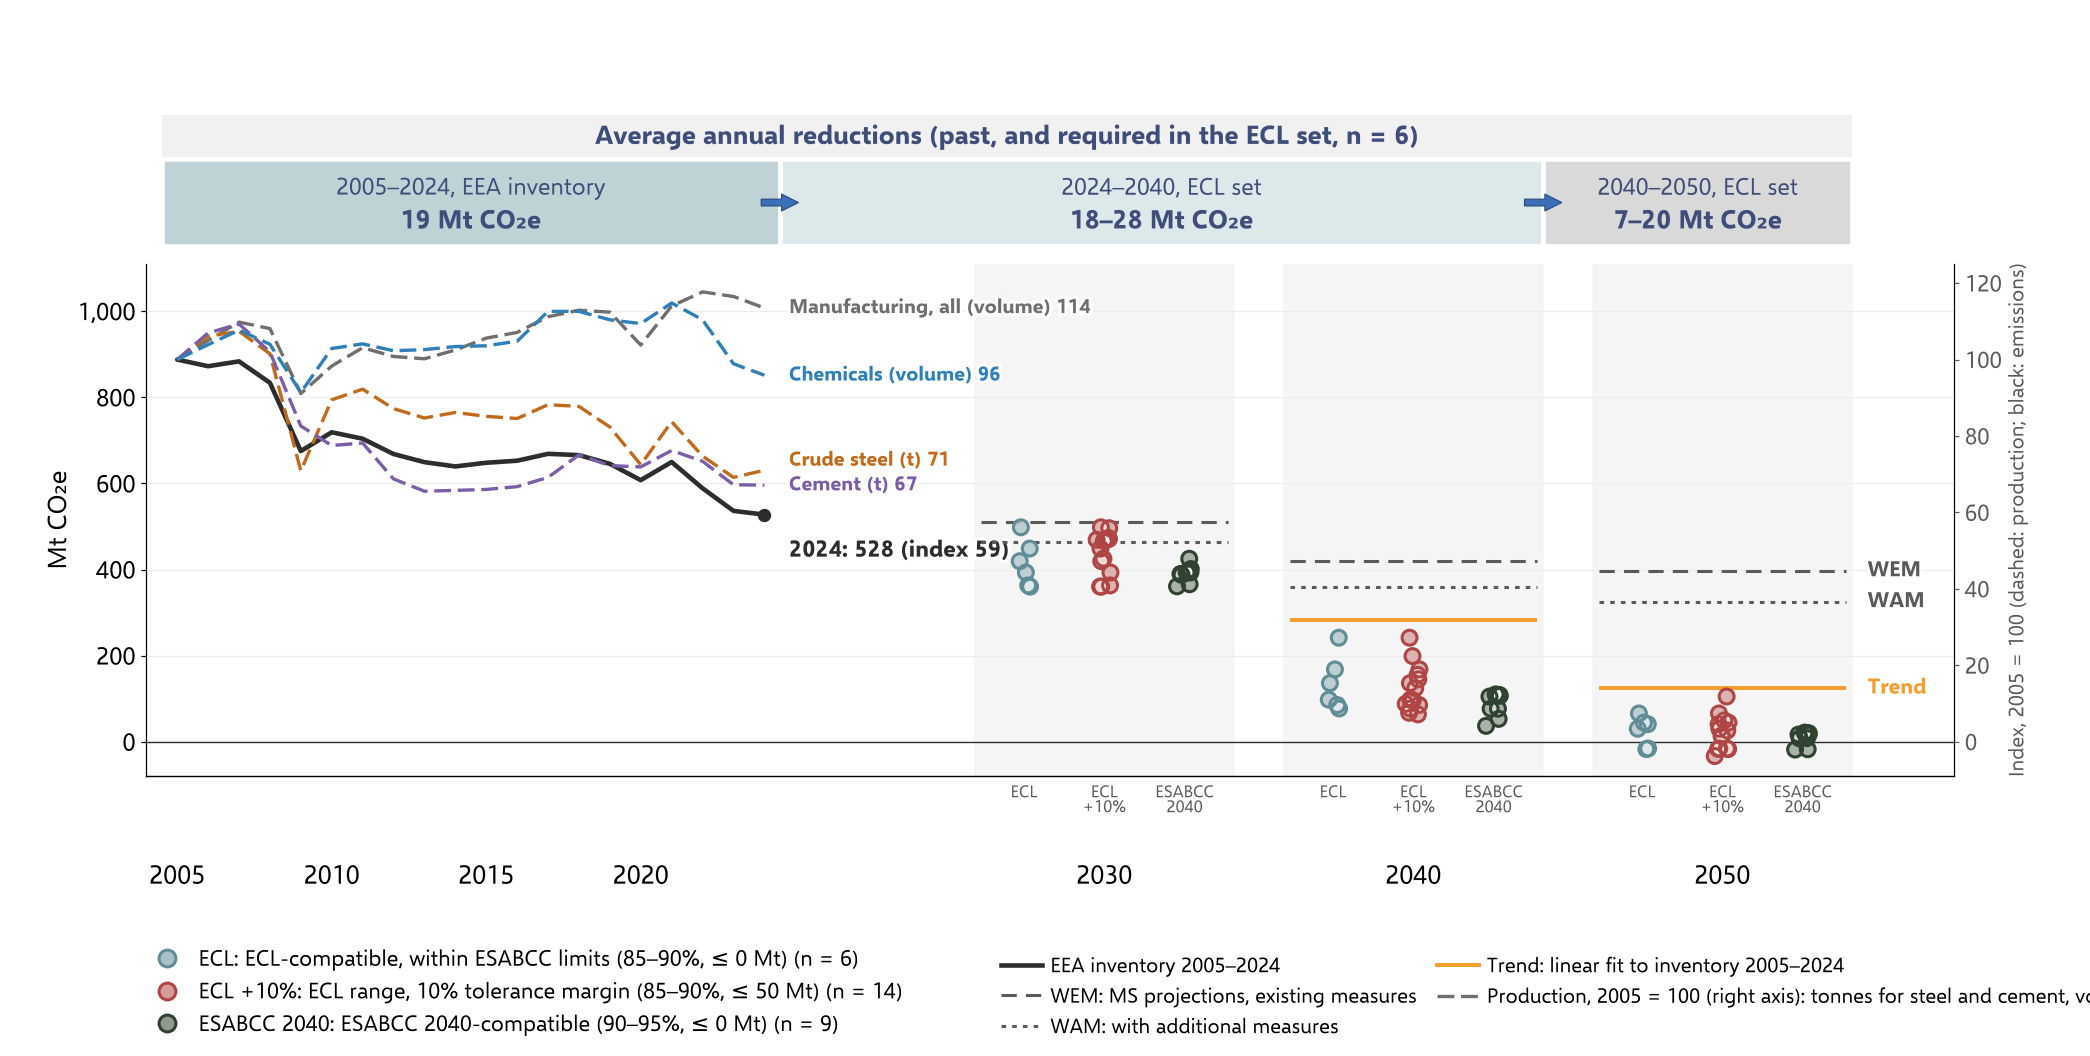
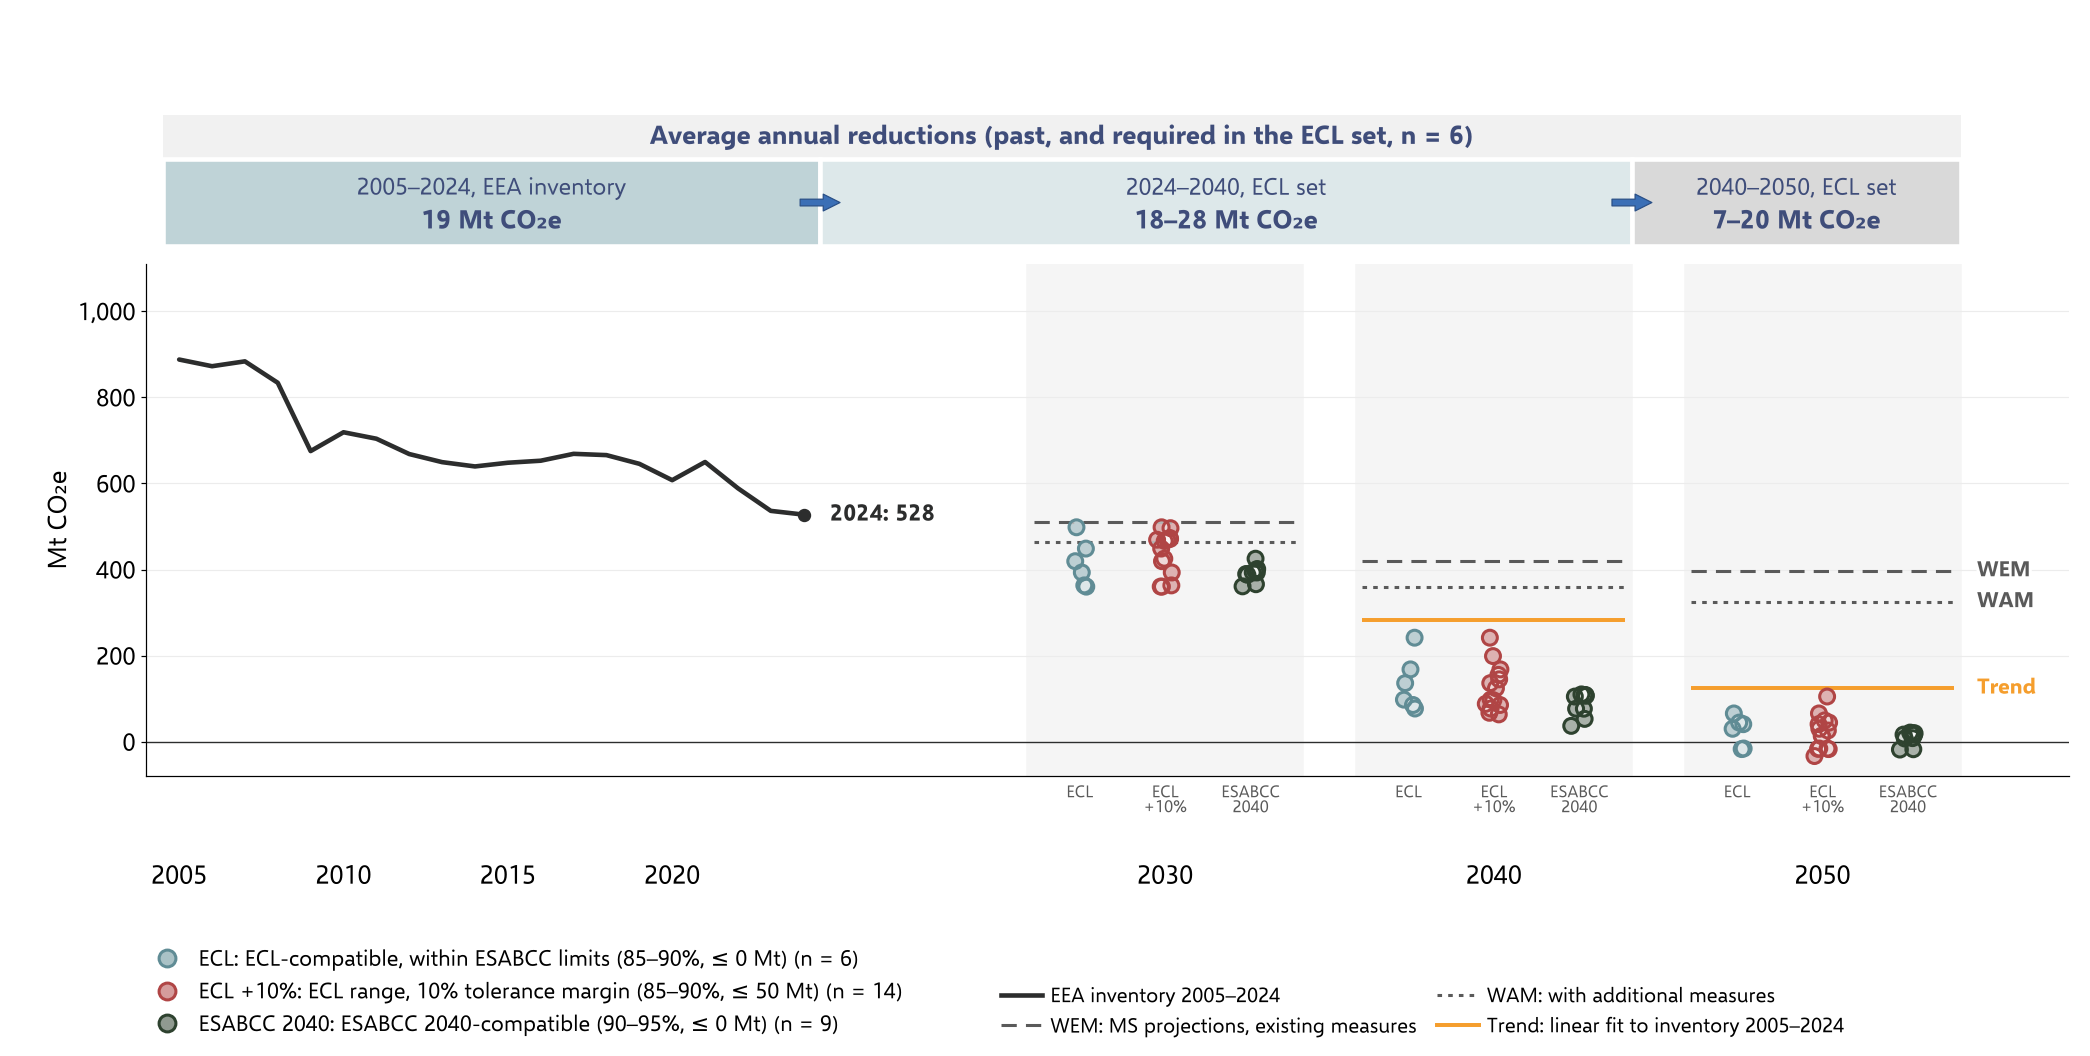
fig(pathway-screening): remove the secondary production-index axis from the industry figure
The deck industry figure keeps the average-annual-reductions panel but no longer draws the
right-hand production index axis or the dashed production lines. They can be restored with
PRODAX=1.

AI-compiled — pending Secretariat verification.

Claude-Session: https://claude.ai/code/session_01PeWhbKqFURwGEMzoiagCdS

diff --git a/scripts/pathway-screening/deck/fig_sector.py b/scripts/pathway-screening/deck/fig_sector.py
@@ -22,6 +22,7 @@ for sk in ('total', 'industry'):
     NARROW = os.environ.get('NARROW') == '1' and sk == 'industry'
     PLAIN = os.environ.get('PLAIN') == '1'   # plain version for documents: no production axis, no reductions panel
     FULL = sk == 'industry' and not PLAIN
+    PRODAX = FULL and os.environ.get('PRODAX') == '1'   # secondary production-index axis: off by default (removed on request 27 Nov 2026)
     f, ax = plt.subplots(figsize=((15.5, 9.6) if NARROW else (19, 9.6)) if sk == 'industry' else (19, 8.2)); lo, hi = YL[sk]; OUT[sk] = {}
     hs = {y: v for y, v in (HN if sk == 'total' else {y: H[y][sk] for y in H}).items() if y >= 2005}; hy = sorted(hs)
     hi = max(hi, max(hs.values()) * 1.08)
@@ -71,7 +72,7 @@ for sk in ('total', 'industry'):
     h2 = [Line2D([], [], color=HC, lw=3, label='EEA inventory 2005–2024')]
     if sk in WW['WEM']: h2 += [Line2D([], [], color='#5a5a5a', lw=2, ls=(0, (5, 3)), label='WEM: MS projections, existing measures'), Line2D([], [], color='#5a5a5a', lw=2, ls=(0, (1.5, 2)), label='WAM: with additional measures'), Line2D([], [], color=TRC, lw=2.6, label='Trend: linear fit to inventory 2005–2024')]
     f.legend(handles=h, loc='lower left', ncol=1, frameon=False, fontsize=(13 if NARROW else 14.5), bbox_to_anchor=(0.06, 0.0), handletextpad=0.4)
-    if FULL: h2 += [Line2D([], [], color='#6f6f6f', lw=2.2, ls=(0, (5, 2)), label=('Production, 2005 = 100 (right axis)' if NARROW else 'Production, 2005 = 100 (right axis): tonnes for steel and cement, volume index otherwise'))]
+    if PRODAX: h2 += [Line2D([], [], color='#6f6f6f', lw=2.2, ls=(0, (5, 2)), label=('Production, 2005 = 100 (right axis)' if NARROW else 'Production, 2005 = 100 (right axis): tonnes for steel and cement, volume index otherwise'))]
     f.legend(handles=h2, loc='lower left', ncol=2, frameon=False, fontsize=(11.5 if NARROW else 13.5), bbox_to_anchor=((0.50 if NARROW else 0.47), 0.0), handletextpad=0.4, columnspacing=1.0)
     if notes: ax.text(0.0, 1.015, '\n'.join(textwrap.fill(n_, 165) for n_ in notes), transform=ax.transAxes, fontsize=13.5, color='#6a6a6a', va='bottom')
     if FULL:
@@ -84,6 +85,7 @@ for sk in ('total', 'industry'):
         for k_, src_ in (('STEEL_T', 'crude_steel'), ('CEMENT_T', 'cement')):
             v_ = {int(y): float(x) for y, x in TN[src_]['values'].items() if x is not None}; PI[k_] = {'I2005': {y: x / v_[2005] * 100 for y, x in v_.items()}}
         hi = e05 * 1.25; ax.set_ylim(lo, hi)
+    if PRODAX:
         ax2 = ax.twinx(); ax2.set_ylim(lo / e05 * 100, hi / e05 * 100); ax2.set_yticks([0, 20, 40, 60, 80, 100, 120])
         ax2.tick_params(axis='y', labelsize=15, colors='#5a5a5a'); ax2.set_ylabel('Index, 2005 = 100 (dashed: production; black: emissions)', fontsize=13.5, color='#5a5a5a')
         for sp in ('top', 'left'): ax2.spines[sp].set_visible(False)
@@ -97,7 +99,9 @@ for sk in ('total', 'industry'):
         for q in range(1, len(ends)):
             if ends[q][0] - ends[q - 1][0] < 6.5: ends[q][0] = ends[q - 1][0] + 6.5
         for v, t, c_ in ends: ax2.text(hx(HY) + 0.08, v, t, fontsize=13, color=c_, va='center', ha='left', fontweight='bold', path_effects=halo)
-        ax.texts[0].set_text(f'{HY}: {fmt(hs[HY])} (index {hs[HY] / e05 * 100:.0f})'); ax.texts[0].set_position((hx(HY) + 0.08, hs[HY] - 0.07 * (hi - lo)) if not NARROW else (hx(HY) - 0.35, hs[HY] - 0.10 * (hi - lo)))
+        ax.texts[0].set_text(f'{HY}: {fmt(hs[HY])} (index {hs[HY] / e05 * 100:.0f})')
+        ax.texts[0].set_position((hx(HY) + 0.08, hs[HY] - 0.07 * (hi - lo)) if not NARROW else (hx(HY) - 0.35, hs[HY] - 0.10 * (hi - lo)))
+    if FULL:
         # Panel: average annual reductions, historic (EEA inventory) and required by the ECL set (range over its pathways)
         from matplotlib.patches import Rectangle
         from matplotlib.transforms import blended_transform_factory
@@ -121,7 +125,7 @@ for sk in ('total', 'industry'):
         for xa in (PAN[0][1], PAN[1][1]):
             ax.annotate('', (xa + 0.07, yb + hb / 2), (xa - 0.07, yb + hb / 2), xycoords=tr, textcoords=tr, arrowprops=dict(arrowstyle='simple', fc='#3b6fb6', ec='#2a4f86', lw=0.8, mutation_scale=22), annotation_clip=False)
         OUT[sk]['reductions'] = dict(hist=round(hist, 1), r2024_2040=[round(min(a), 1), round(max(a), 1)], r2040_2050=[round(min(b), 1), round(max(b), 1)], n=len(ecl))
-    f.subplots_adjust(left=0.07, right=(0.935 if FULL else 0.99), top=(0.75 if FULL else (0.96 if PLAIN else 0.90)), bottom=(0.265 if sk == 'industry' else 0.31))
+    f.subplots_adjust(left=0.07, right=(0.935 if PRODAX else 0.99), top=(0.75 if FULL else (0.96 if PLAIN else 0.90)), bottom=(0.265 if sk == 'industry' else 0.31))
     if PLAIN: f.savefig(f'f3_{sk}_plain.png', dpi=150, facecolor='white')
     else: f.savefig(f'f3_{sk}_narrow.png' if NARROW else f'f3_{sk}.png', dpi=110, transparent=True)
     plt.close(f)
